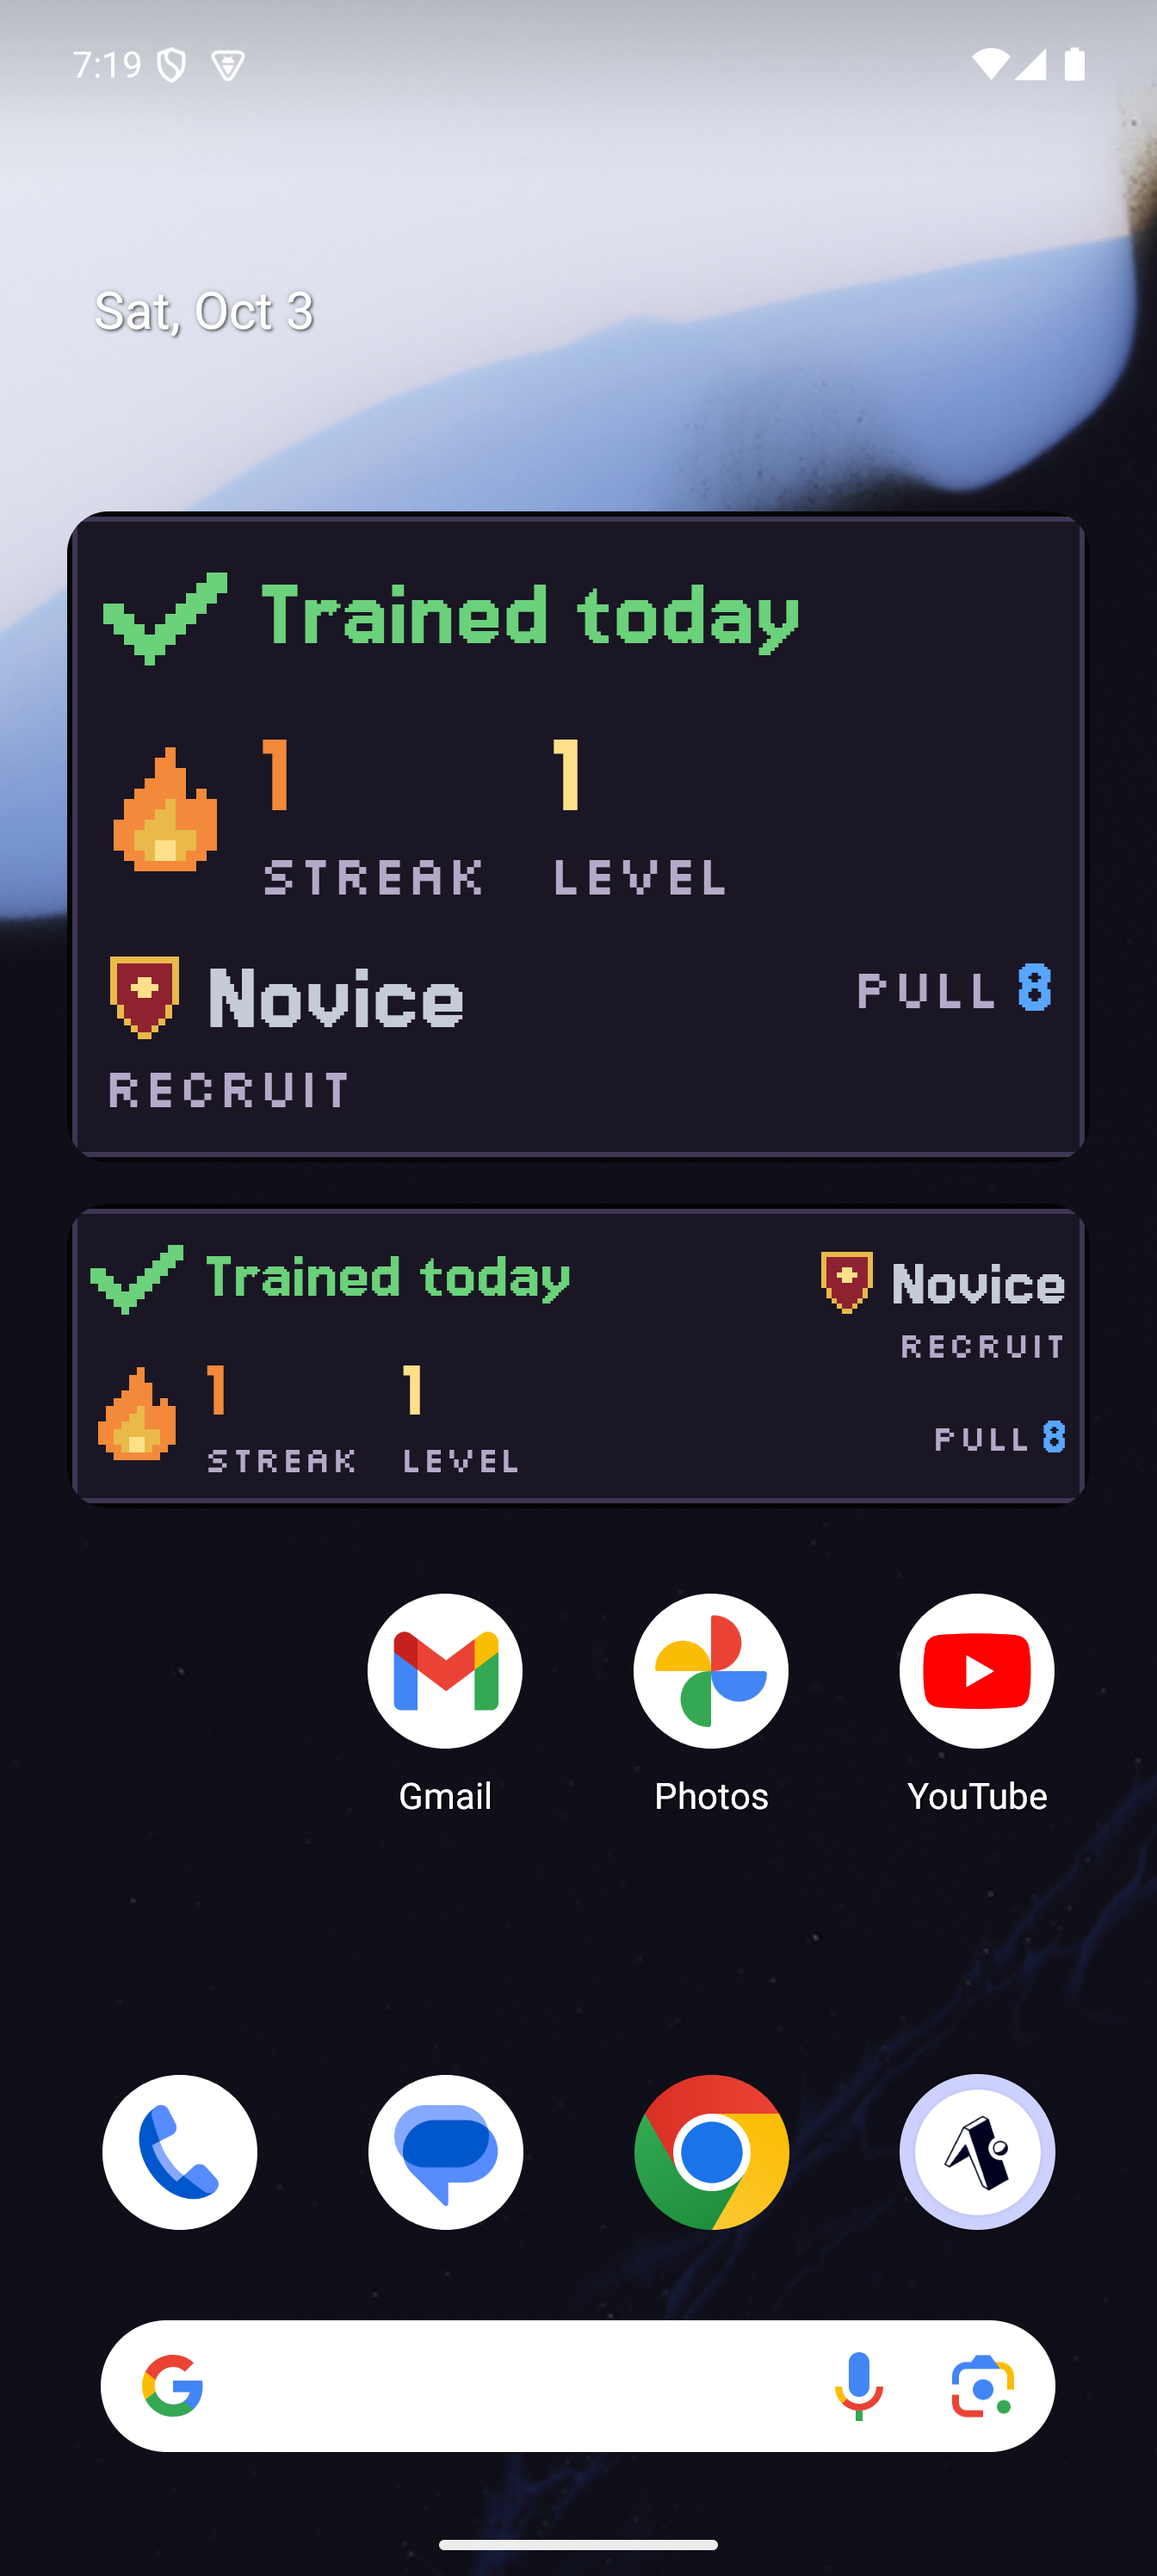
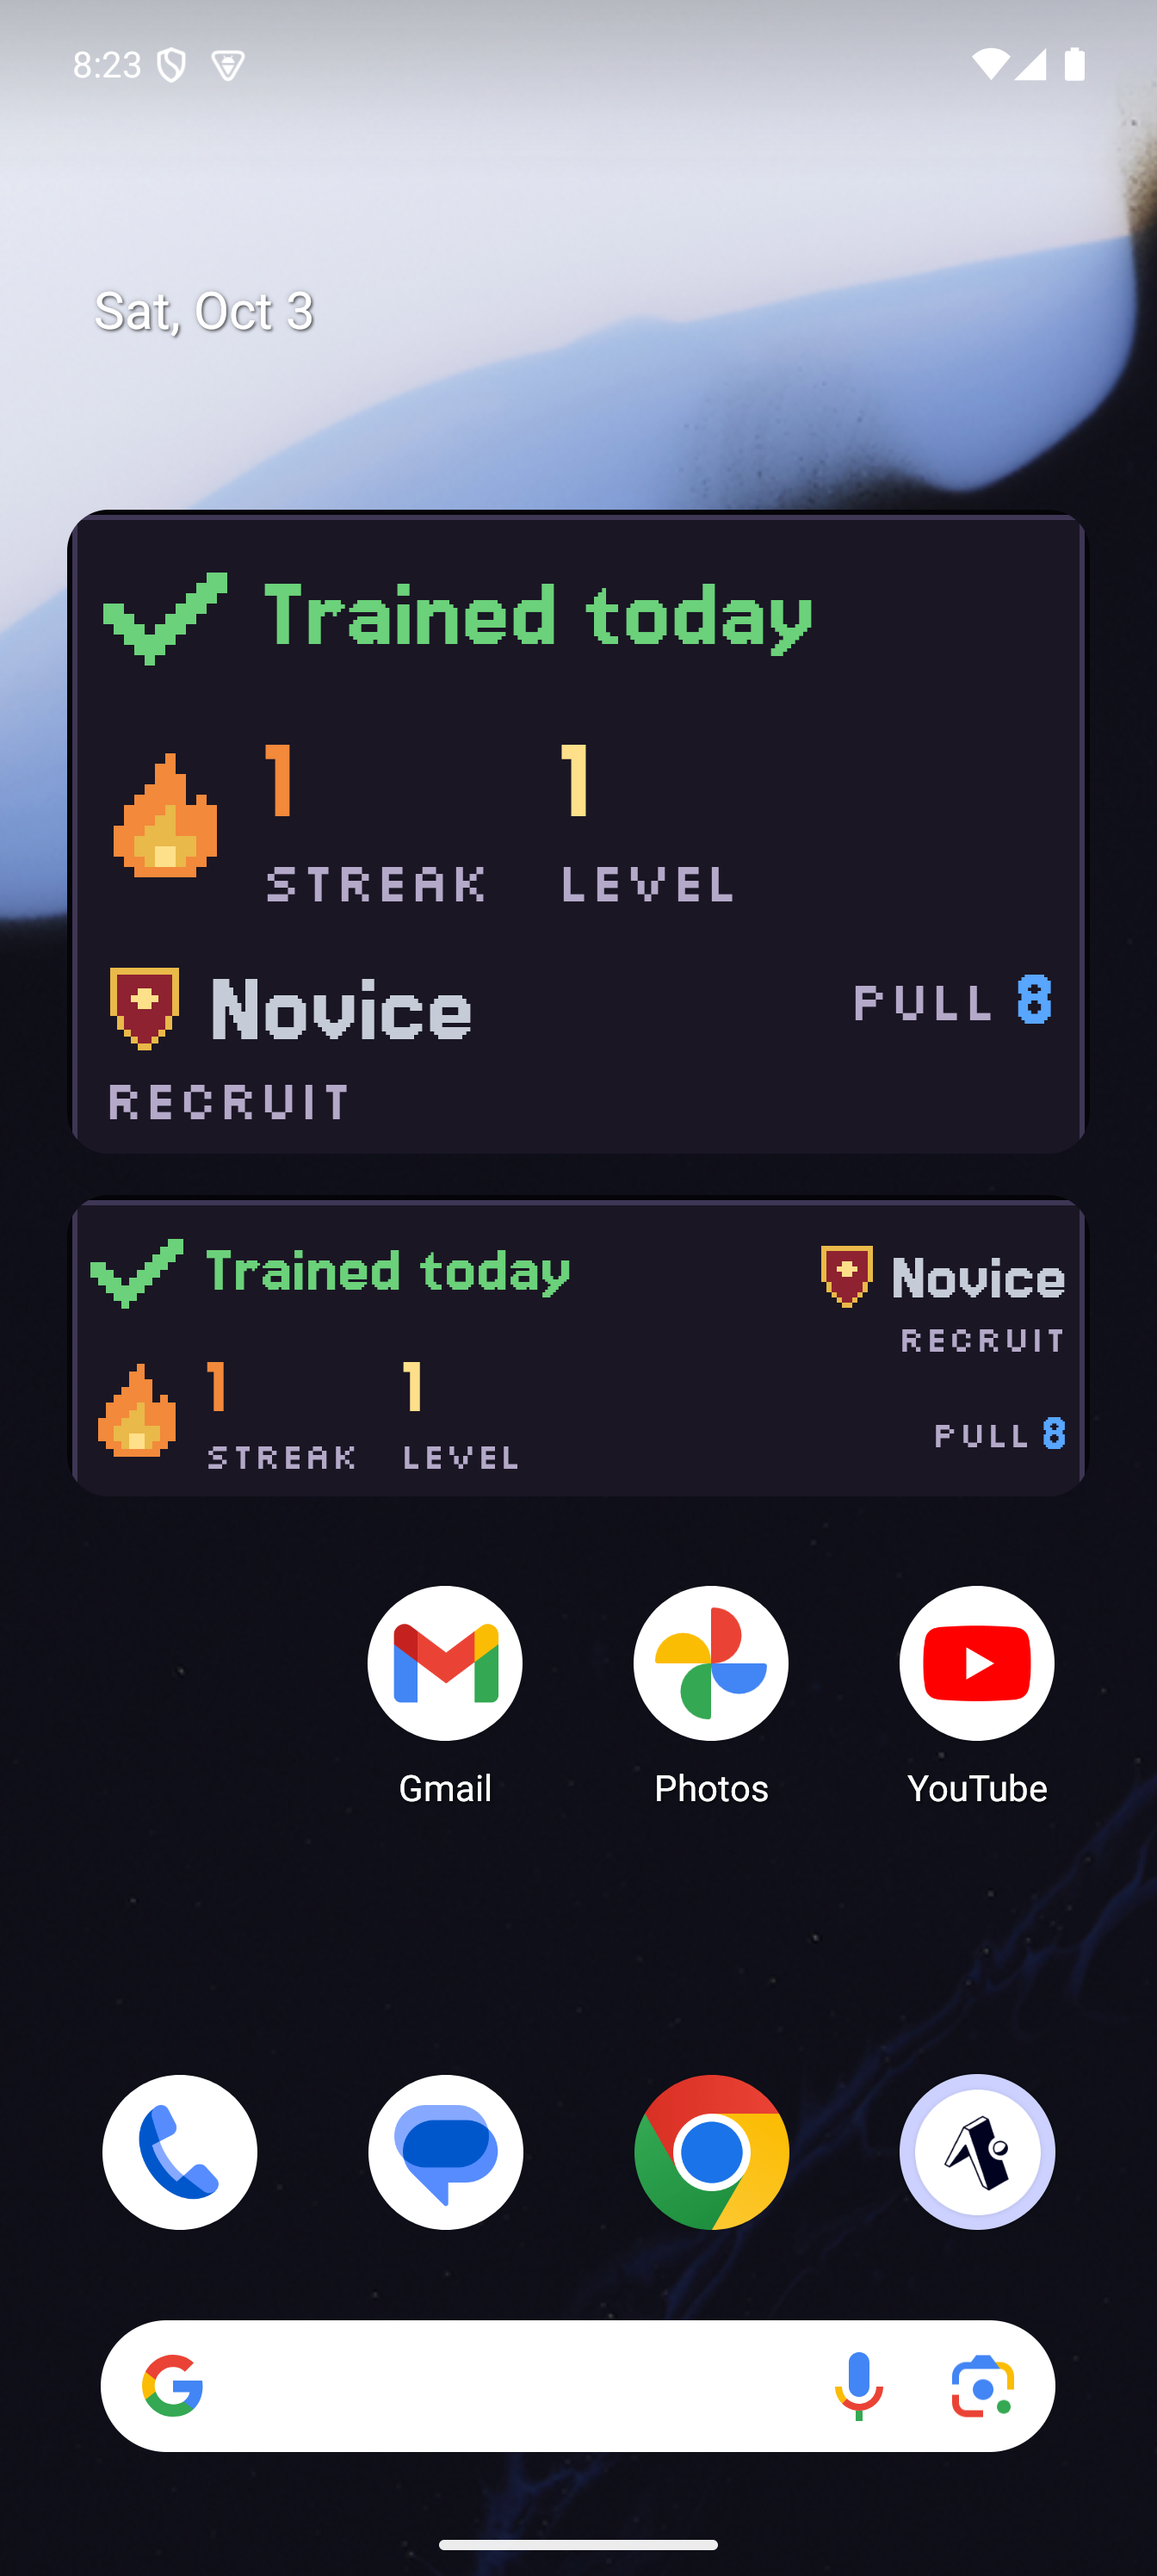
docs: 6.12 done in PLAN, emulator screenshots of the new widget layouts

diff --git a/docs/PLAN.md b/docs/PLAN.md
@@ -269,9 +269,17 @@
   instead of a chibi, as a man or a woman (Customize → Body) with Spiky / Long / Ponytail hair;
   every accessory and weapon re-fitted, stored data unchanged (`look.body` / `look.hairStyle` are
   optional). Screenshots `docs/screenshots/6.13-*.png`.
+- Widgets use their space (6.12, ADR-062, [PR #62](https://github.com/Herofresh/SkillForge/pull/62)): smaller defaults (small widget 4 × 1, at
+  most two rows; companion widget 4 × 2, min 300 × 110 dp) and a pure layout engine
+  (`src/widget/widgetLayout.ts`) that measures every size class (narrow, standard, wide, tall,
+  grid) with the fonts' real widths at every scale and picks the one that fills the reported size,
+  so content grows and reflows instead of leaving empty bands, nothing clipped. The companion
+  sprite is trimmed to its painted pixels. Picker previews drawn from the same layout. Screenshots
+  `docs/screenshots/6.12-*.png`.
 
 ## Next up
 0. 6.13 companion cooler look + woman body: merged ([PR #60](https://github.com/Herofresh/SkillForge/pull/60)); ships with the next release.
+   6.12 widgets use their space: [PR #62](https://github.com/Herofresh/SkillForge/pull/62) waits for a reviewer agent; ships with the next release.
 1. On the user's phone: install v0.6.0 (once published) over the installed build (Update, no
    uninstall), add the new SkillForge Companion widget and report what feels off.
 2. Phase 7 (Google Play), starting with **7.1: the user creates the upload key with `keytool`**
@@ -284,6 +292,30 @@
 - None. The `gh` token now has the `workflow` scope, so agents can push `.github/workflows/*`.
 
 ## Handoff notes
+- **Widgets use their space (task 6.12, ADR-062, [PR #62](https://github.com/Herofresh/SkillForge/pull/62)):**
+  - Code: `src/widget/widgetLayout.ts` (pure; font advance tables from the TTFs, `widgetSizes(scale)`,
+    the layout tree, `measureWidgetNode`, `placeWidgetNodes`, `widgetLayout`, `companionLayout`);
+    `nativeWidget.tsx` only renders the tree; `trimPixelRows` in `src/lib/pixelGrid.ts`;
+    `ATTRIBUTE_LABELS` now lives in `src/components/attributeLabels.ts` (re-exported).
+  - Sizes: app.json small 4 × 1 (min 110 × 40 dp, `maxResizeHeight` 300 dp), companion 4 × 2
+    (min 300 × 110 dp). Provider names unchanged: placed widgets keep their size and redraw.
+  - Emulator (Pixel_8_Pro_API_35, release APK built with `-- --clean` in `D:\sf612`, signer check
+    passed, installed with `install -r` over v0.6.0): the 4 × 2 small widget placed on 0.6.0
+    redrew as `grid` filling the height; a new small widget at the default 4 × 1 (395 × 115 dp)
+    drew `standard` with rank, class and Pull; resized to 2 × 1 it drew `narrow` with the status
+    on two lines; the companion 4 × 3 placed on 0.6.0 drew the 6.13 sprite full height next to
+    the column; a new companion at the default 4 × 2 drew sprite + column; nothing clipped.
+    Screenshots `6.12-small-4x1`, `6.12-small-4x2-and-2x1`, `6.12-companion-4x3-and-4x2`,
+    `6.12-widget-picker`.
+  - Gotcha: the library reports portrait widgets as min width × **max** height (e.g. ≈ 260 dp for
+    a 4 × 2 whose view is ≈ 245 dp), and the host scales the bitmap to fit, so the device can show
+    a slightly different scale than a test at 395 × 249 predicts. Fine-tune with the screenshots,
+    not only the tests.
+  - Tuning knobs (all named constants in `widgetLayout.ts`): `EXTRA_WEIGHT` (how much showing
+    rank / class / attributes is worth vs. bigger text), `READABLE_SCALE` (1 = the 6.6 sizes),
+    `FIT_SHARE`, `PADDING_MAX_SHARE`. At 4 × 3 the companion's text column is spread with gaps
+    (the sprite takes the height); if the user wants bigger text there, weigh the sprite less.
+  - The `D:\sf612` copy (with node_modules and android/) can be deleted.
 - **Companion: cooler look (task 6.13, ADR-061, [PR #60](https://github.com/Herofresh/SkillForge/pull/60)):**
   - Code: `src/data/companion/body.ts` (`SPRITE_SIZE` 32 × 44, the one size constant the UI,
     widget and scripts read; `BODY_SHAPES` man / woman; `HAIR_STYLES` spiky / long / ponytail with
@@ -1324,10 +1356,11 @@ upgrade check from every earlier release). Any new table or column is additive a
   its own, no onboarding change, no data change.
 - [x] 6.11 v0.6.0 release (6.9–6.10c), same routine: upgrade check from 0.1.0, 0.2.0, 0.3.0,
   0.4.0 and 0.5.0, then both widgets on the install upgraded from 0.5.0 ([PR #58](https://github.com/Herofresh/SkillForge/pull/58); release [v0.6.0](https://github.com/Herofresh/SkillForge/releases/tag/v0.6.0))
-- [~] 6.12 Widgets use their space (in-progress, agent `fix/widget-space`; user request 2026-10-03:
-  "I want the widget to use its space better or be smaller"): smaller default sizes, a layout per
-  size class (narrow / standard / wide / tall) that fills the height without clipping, regenerated
-  picker previews.
+- [x] 6.12 Widgets use their space (user request 2026-10-03: "I want the widget to use its space
+  better or be smaller"; ADR-062, [PR #62](https://github.com/Herofresh/SkillForge/pull/62)): smaller defaults (small 4 × 1, companion 4 × 2), a measured
+  layout per size class (narrow / standard / wide / tall / grid) that fills the height without
+  clipping (tested at 4- and 5-column launcher sizes), the companion sprite trimmed to its pixels,
+  regenerated picker previews.
 - [x] 6.13 Companion: cooler look (user request 2026-10-03: "try to make the companion less cute
   and more cool"; ADR-061, [PR #60](https://github.com/Herofresh/SkillForge/pull/60)). Same art direction family (SNES-era FF
   field sprites, Octopath Traveler; original art), from chibi-cute to a cool, heroic hero: taller
